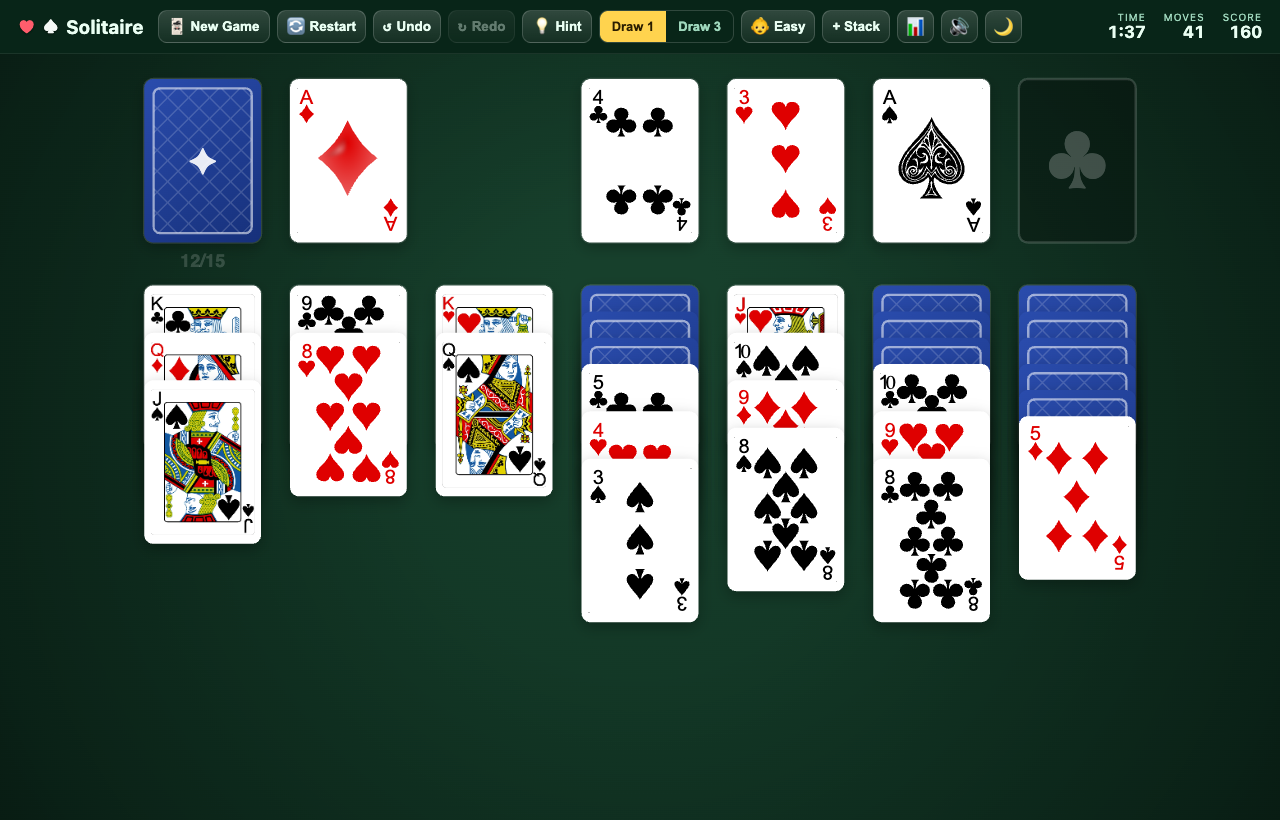
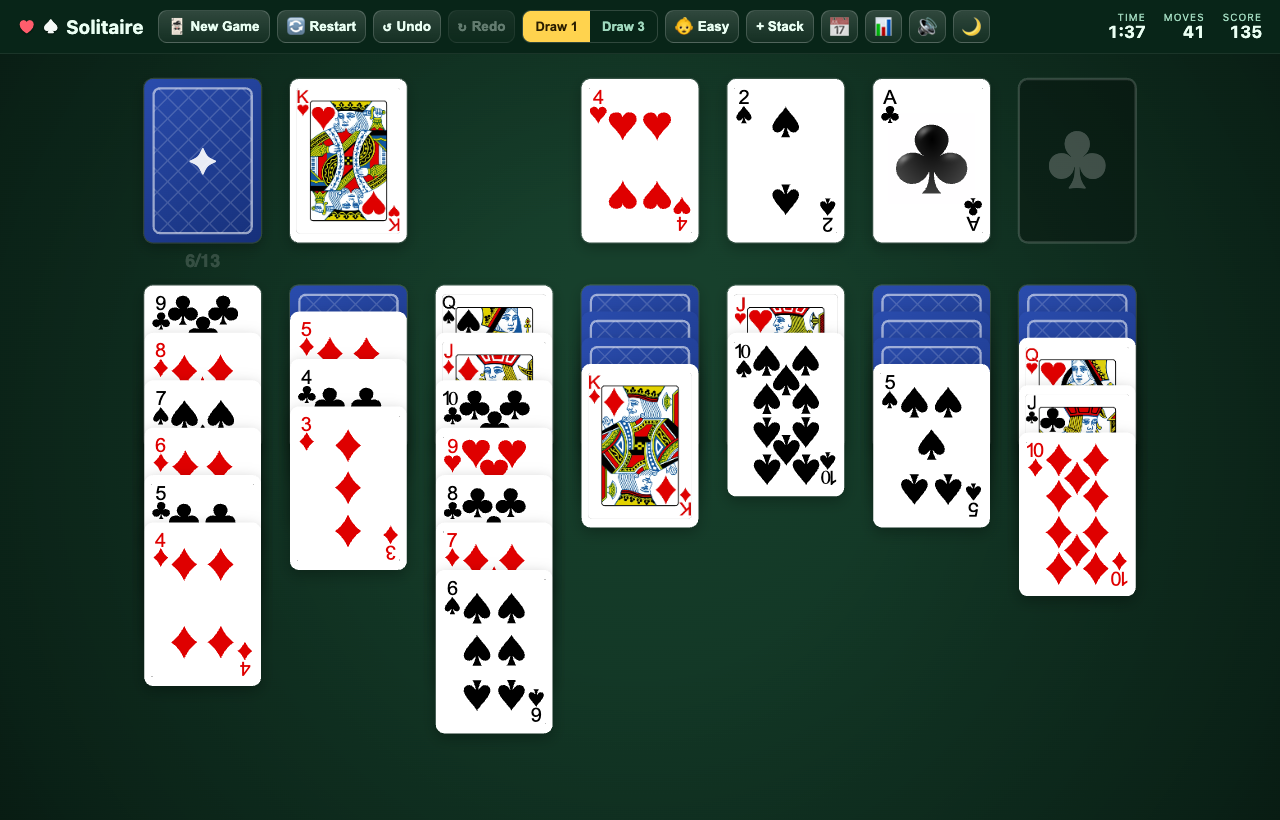
Reshoot the README screenshots for the current toolbar
The 📅 button arrived and the 💡 Hint button left, so every board shot was two
buttons out of date. Same deal (seed 116) across gameplay, gameplay-light,
spare-pile, toolbar-hidden and iphone; stats.png gains the three daily rows.
Every file keeps the pixel size it had, and cards.png is untouched.

CLAUDE.md picks up what the run taught: stats.png was missing from the size
list; assert the overlay reads "Resume game" before shooting, or a lost save
photographs a random deal instead; click the stock via computeLayout so one
routine works at every viewport; and note that a regenerating script now has to
bring its own greedy player, since findHint used to be one and is gone. That
player can't win a game — 40 of 52 cards home at best over 200 seeds — so
win.png is assembled directly, checked with parseGameState, and handed to the
app's auto-complete to finish and set the cascade going.

diff --git a/CLAUDE.md b/CLAUDE.md
@@ -317,9 +317,12 @@ console for errors before declaring success.
 
 `screenshots/*.png` are regenerated by hand — nothing in CI touches them — and
 each one keeps the pixel size it already had: 1280×820 for `gameplay`,
-`gameplay-light` and `spare-pile`, 1280×706 for `win`, 1000×700 for
+`gameplay-light` and `spare-pile`, 1280×706 for `win`, 1000×700 for `stats` and
 `toolbar-hidden` (narrow enough that the ☰ is offered), and 390×844 at DPR 2 for
 `iphone`. `cards.png` is card art and unaffected by layout work.
+
+**Any change to the toolbar dates every board shot at once** — a button added or
+removed shows up in all six. Regenerate the set, don't patch one.
 
 What makes them reproducible rather than fiddly:
 
@@ -330,8 +333,21 @@ What makes them reproducible rather than fiddly:
   rewritten the address with `?deal=`, and a `?deal=` naming a *different* layout
   makes the boot rule throw the injected save away for a fresh deal. This is the
   documented behaviour, and it silently ruins a screenshot run.
+  **Assert the overlay reads "Resume game" before shooting** — that is the cheap
+  check that the save survived, and without it a run quietly photographs a random
+  fresh deal.
 - **Draw one card after dismissing the overlay.** A resumed game starts with no
-  undo history, so otherwise every shot shows Undo/Redo greyed out.
+  undo history, so otherwise every shot shows Undo/Redo greyed out. Click the stock
+  at `computeLayout(...).stock` rather than at a hard-coded point, so the same code
+  works at every viewport.
+- **The mid-game boards need a greedy player of their own.** `findHint` used to
+  serve as one and is gone; a throwaway "foundation → revealing tableau move →
+  waste → draw" loop against the public `Game` API is enough. It is *not* strong
+  enough to win a game, though — over 200 seeds its best result is 40 of 52 cards
+  home — so `win.png` is the one board assembled directly rather than played:
+  A–J home, the queens and kings still out, `parseGameState` asserted on it before
+  `restore()`, and the app's own auto-complete left to finish it and start the
+  cascade. Eight cards to sweep at +10 and −1 a move lands it on 122 moves / 980.
 
 ## Git workflow
 
